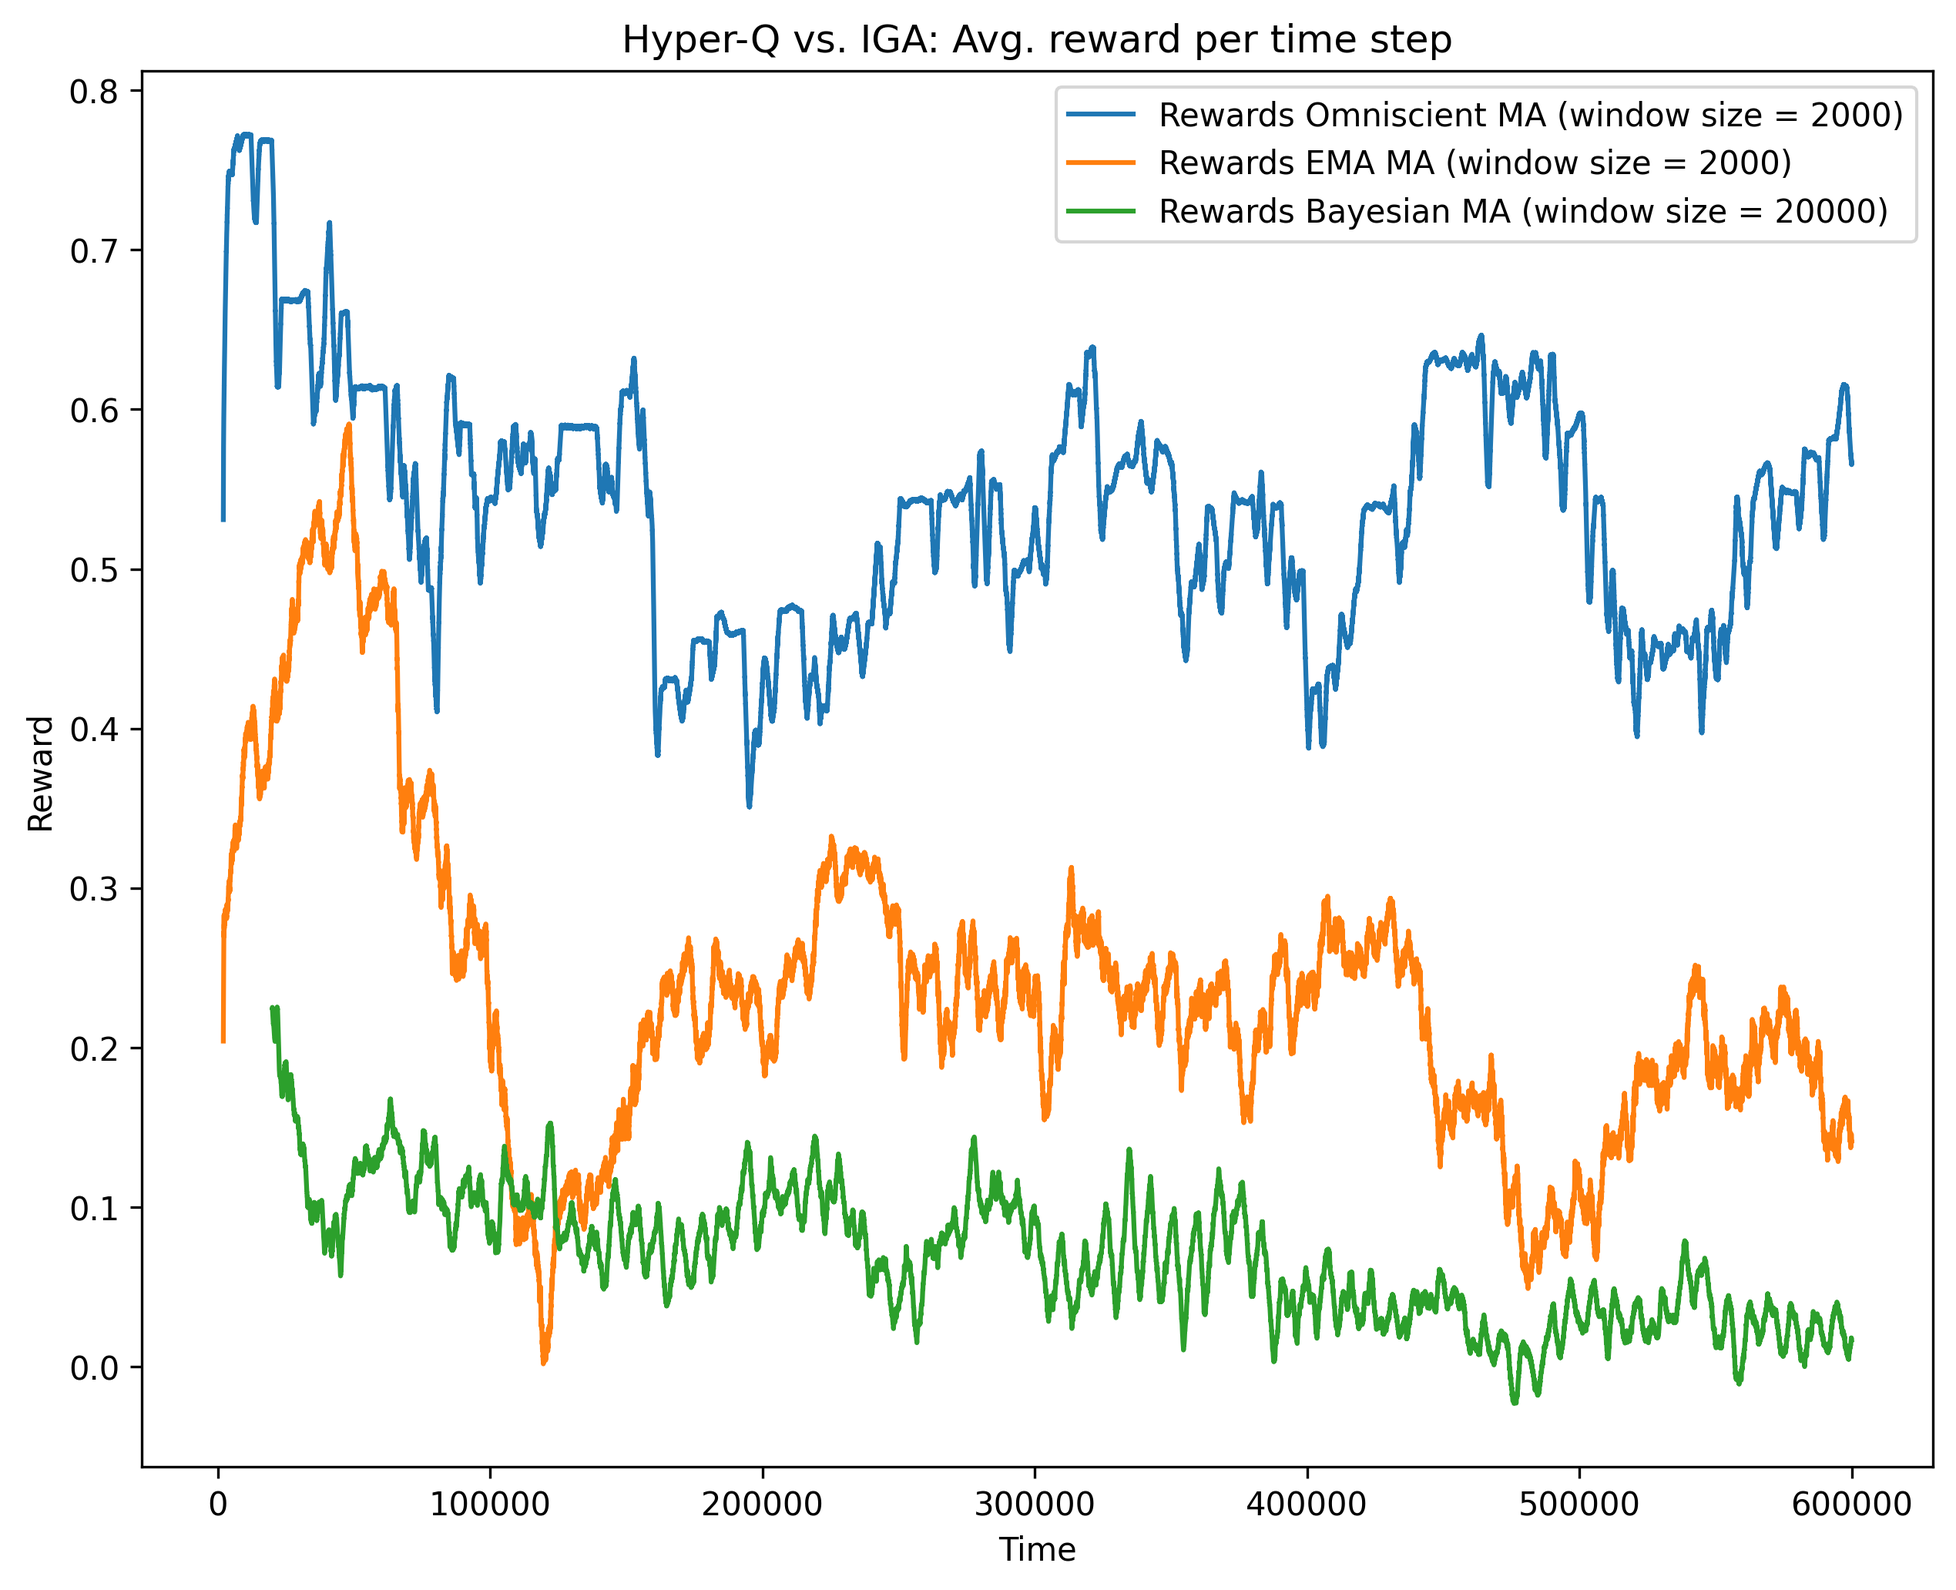
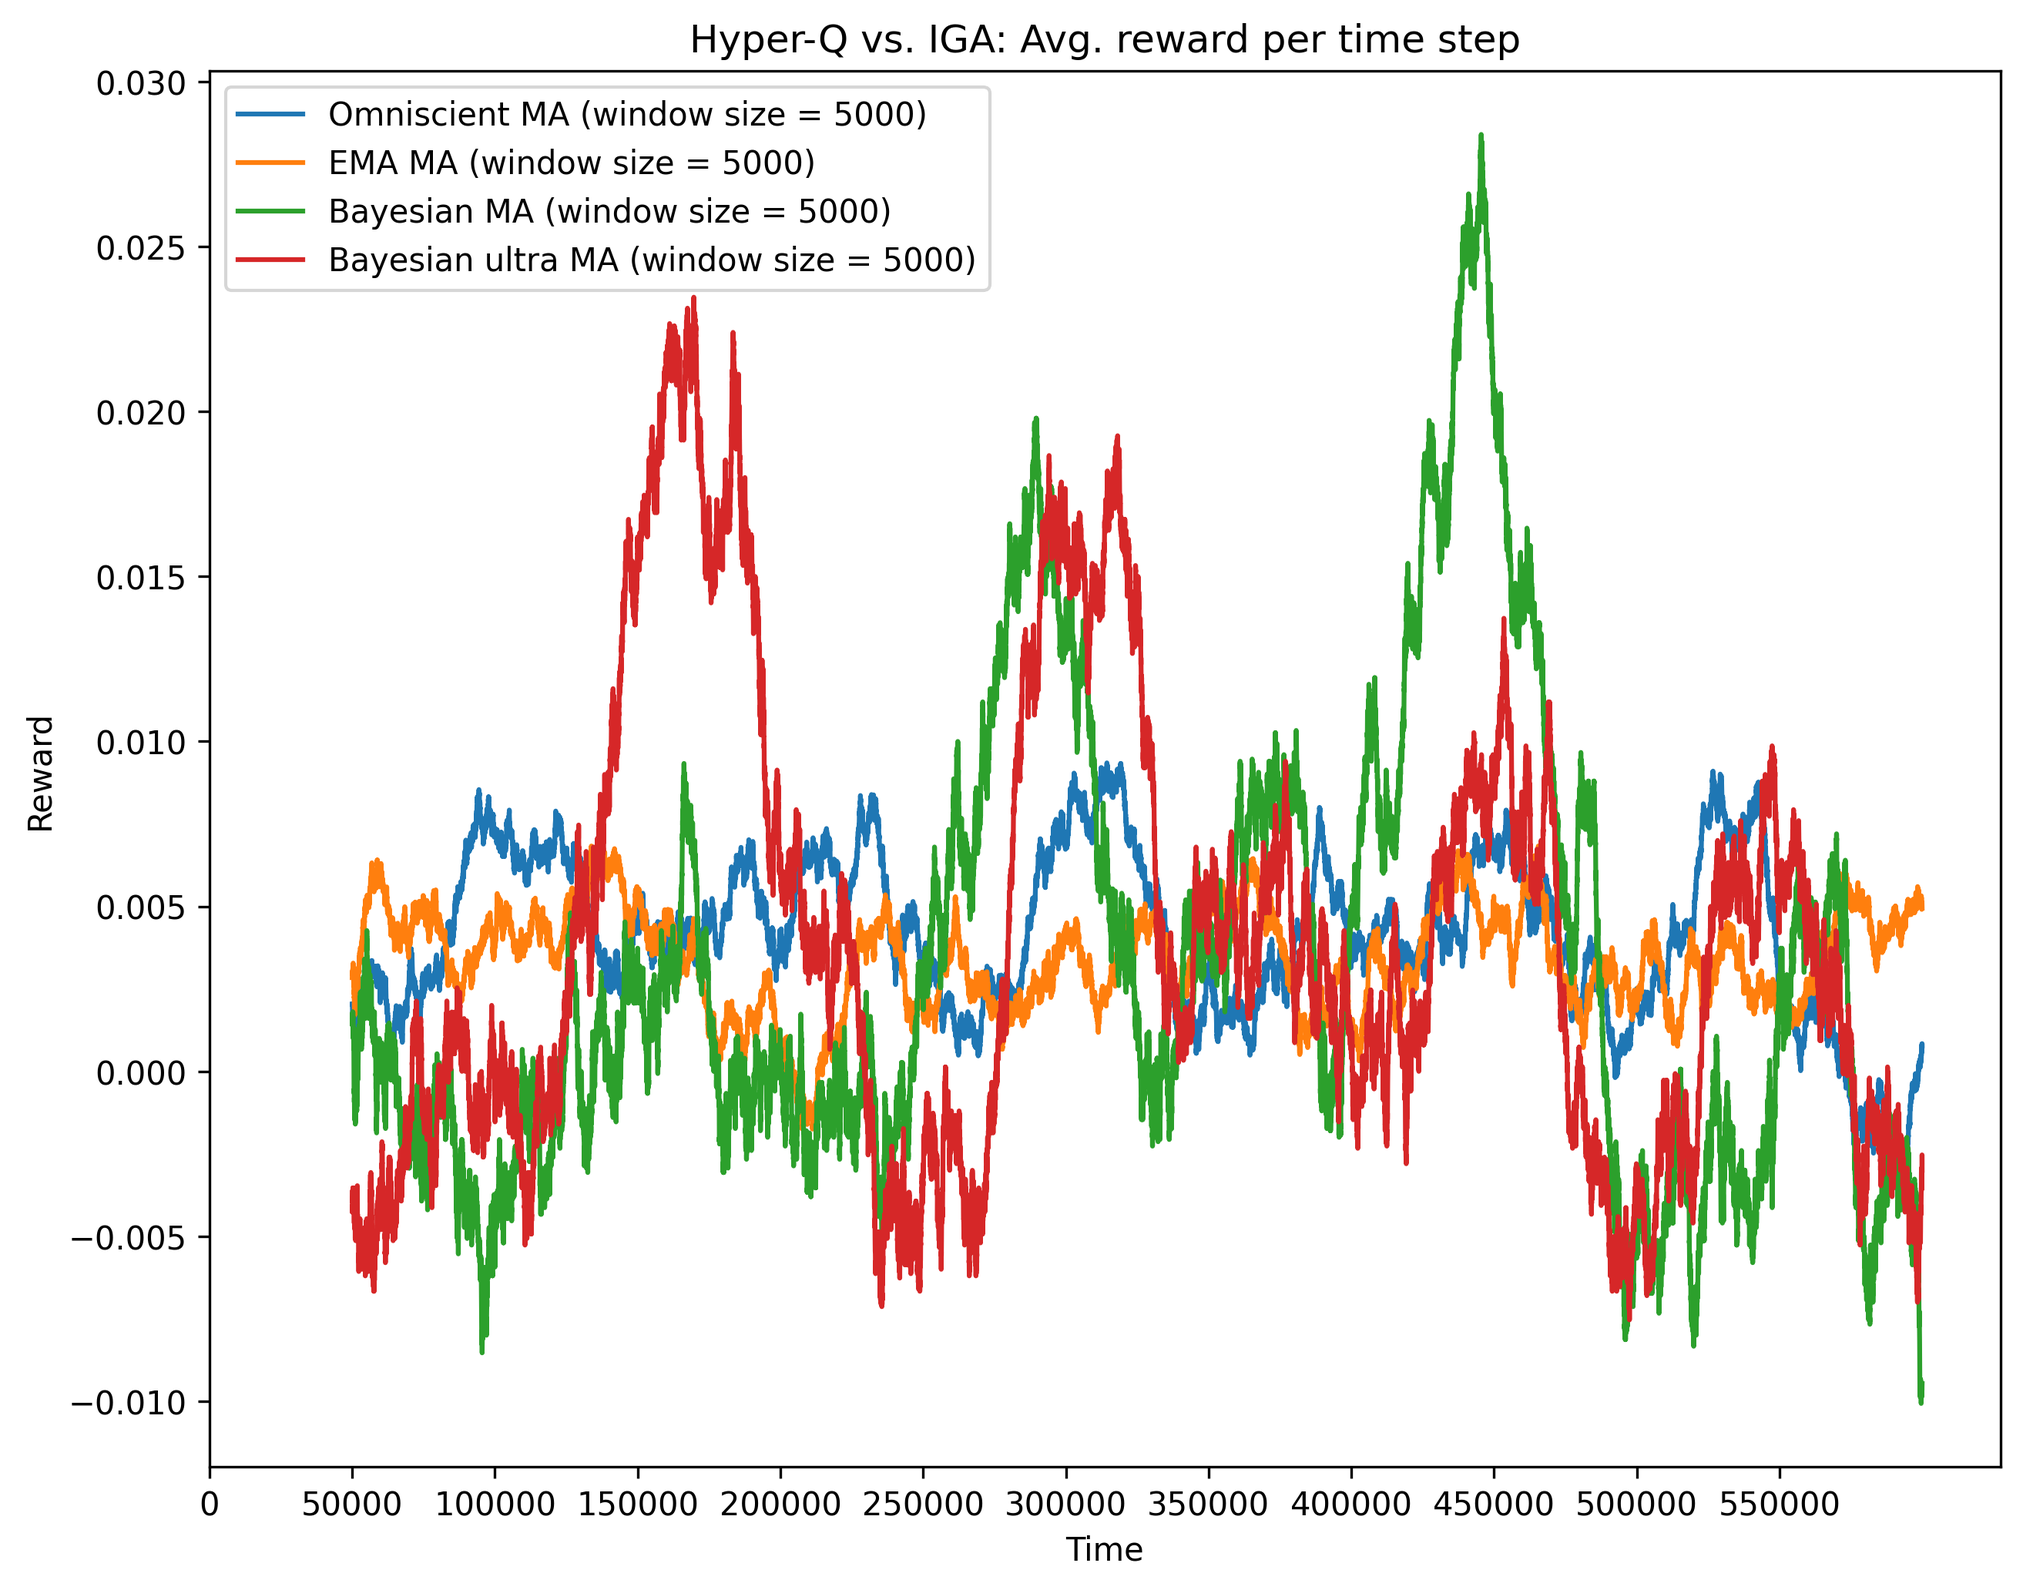
include bayesian and bayesian turbo in graphs

diff --git a/results analysis/temp.py b/results analysis/temp.py
@@ -10,7 +10,7 @@ plt.rcParams["figure.figsize"] = (10, 8)
 # %%
 
 
-def load_experiment_data(target_dir="results/EMA vs monotone"):
+def load_experiment_data(target_dir="results2/EMA vs monotone"):
     # Create an empty list to store the data from each file
     all_data = []
 
@@ -119,6 +119,9 @@ def plot_average_reward_hyperq_vs_other(hyper_q_experiments,
 
     if steps is None:
         steps = max_steps
+    
+    # Generate a range of indices from 0 to the length of val1 - 1
+    time = range(steps)
 
     for idx, experiment_data in enumerate(hyper_q_experiments):
         nb_experiments, max_steps, _ = experiment_data.shape
@@ -126,8 +129,7 @@ def plot_average_reward_hyperq_vs_other(hyper_q_experiments,
         # mean of axis 0 -> wants seq of len t
         agent1_avg_rewards = np.mean(experiment_data[:, 0:steps, agent_idx], axis=0)
 
-        # Generate a range of indices from 0 to the length of val1 - 1
-        time = range(steps)
+
 
         # moving average
         ma_rewards = pd.Series(agent1_avg_rewards).rolling(
@@ -135,13 +137,18 @@ def plot_average_reward_hyperq_vs_other(hyper_q_experiments,
 
         # Create the plot using matplotlib's plot function
         plt.plot(time, ma_rewards,
-                 label=f'Rewards {agent_names[idx]} MA (window size = {ma_window_sizes[idx]})')
+                 label=f'{agent_names[idx]} MA (window size = {ma_window_sizes[idx]})')
 
         # Add a title, x and y labels, and a legend
         plt.title(title)
         plt.xlabel('Time')
         plt.ylabel('Reward')
         plt.legend()
+    
+    # Multiply the time values by 10 # beacuse c++ only saves every 10 steps
+    tick_positions = range(0, steps, 5000)
+    tick_labels = [x * 10 for x in tick_positions]
+    plt.xticks(tick_positions, tick_labels)
 
     if file_name:
         plt.savefig(file_name, dpi=300, bbox_inches="tight")
@@ -185,6 +192,12 @@ def plot_strategy_over_time_single_agent(strategies_over_time, title, steps=None
 
     plt.show()
 
+# %%
+
+plt.rcParams["figure.figsize"] = (10, 8)
+
+REWARDS_PLAYER_X = 2
+REWARDS_PLAYER_Y = 3
 
 # %%
 # **********************************************
@@ -192,50 +205,50 @@ def plot_strategy_over_time_single_agent(strategies_over_time, title, steps=None
 # **********************************************
 
 ################ IGA VS Omniscient, EMA, Bayesian  ###############
-omniscient_experiment_data = load_experiment_data(
-    target_dir="results/IGA vs omniscient")
-EMA_experiment_data = load_experiment_data(target_dir="results/IGA vs EMA")
-Bayesian_experiment_data = load_experiment_data(
-    target_dir="results/IGA vs Bayesian")
+omniscient_experiment_data = load_experiment_data(target_dir="results2/IGA vs omniscient")
+EMA_experiment_data = load_experiment_data(target_dir="results2/IGA vs EMA")
+Bayesian_experiment_data = load_experiment_data(target_dir="results2/IGA vs Bayesian")
+Bayesian_ultra_experiment_data = load_experiment_data(target_dir="results2/IGA vs Bayesian ultra")
 
 # %%
+
 
 ################ IGA VS Omniscient, EMA, Bayesian  ###############
 plot_average_reward_hyperq_vs_other([omniscient_experiment_data,
                                     EMA_experiment_data,
-                                    Bayesian_experiment_data],
+                                    Bayesian_experiment_data,
+                                    Bayesian_ultra_experiment_data
+                                    ],
                                     title="Hyper-Q vs. IGA: Avg. reward per time step",
                                     agent_names=["Omniscient",
-                                                 "EMA", "Bayesian"],
-                                    ma_window_sizes=[2000, 2000, 20_000],
+                                                 "EMA", "Bayesian", "Bayesian ultra"],
+                                    ma_window_sizes=[5000, 5000, 5000, 5000],
                                     symmetrical_reward=True,
-                                    steps=600_000,
+                                    agent_idx=3,
+                                    steps=60_000,
                                     file_name="HyperQ vs IGA Avg reward per time step")
 
 # %%
 
-# omniscient_experiment_data = load_experiment_data(target_dir="results/PHC vs omniscient")
-EMA_experiment_data = load_experiment_data(target_dir="results/PHC vs EMA")
-Bayesian_experiment_data = load_experiment_data(
-    target_dir="results/PHC vs Bayesian")
+omniscient_experiment_data = load_experiment_data(target_dir="results2/PHC vs omniscient")
+EMA_experiment_data = load_experiment_data(target_dir="results2/PHC vs EMA")
+Bayesian_experiment_data = load_experiment_data(target_dir="results2/PHC vs Bayesian")
+Bayesian_ultra_experiment_data = load_experiment_data(target_dir="results2/PHC vs Bayesian ultra")
 
 # %%
 
-# TODO: OMNISCIENT #
 plot_average_reward_hyperq_vs_other([
-    # omniscient_experiment_data,
+                                    omniscient_experiment_data,
                                     EMA_experiment_data,
-                                    Bayesian_experiment_data],
+                                    Bayesian_experiment_data,
+                                    Bayesian_ultra_experiment_data],
                                     title="Hyper-Q vs. PHC: Avg. reward per time step",
-                                    agent_names=[
-                                                #"Omniscient",
-                                                 "EMA", "Bayesian"
-                                                 ],
-                                    ma_window_sizes=[
-                                        # 2000, 
-                                        2000, 20_000],
+                                    agent_names=["Omniscient",
+                                                 "EMA", "Bayesian", "Bayesian ultra"],
+                                    ma_window_sizes=[5000, 5000, 5000, 5000],
                                     symmetrical_reward=True,
-                                    steps=600_000,
+                                    agent_idx=REWARDS_PLAYER_Y,
+                                    steps=60_000,
                                     file_name="HyperQ vs PHC Avg reward per time step")
 
 
@@ -245,11 +258,12 @@ plot_average_reward_hyperq_vs_other([
 
 
 ################ PHC, IGA, Omniscient, EMA, Bayesian vs monotone ###############
-experiment_vs_monotone1 = load_experiment_data(target_dir="results/PHC vs monotone")
-experiment_vs_monotone2 = load_experiment_data(target_dir="results/IGA vs monotone")
-experiment_vs_monotone3 = load_experiment_data(target_dir="results/Omniscient vs monotone")
-experiment_vs_monotone4 = load_experiment_data(target_dir="results/EMA vs monotone")
-experiment_vs_monotone5 = load_experiment_data(target_dir="results/Bayesian vs monotone")
+experiment_vs_monotone1 = load_experiment_data(target_dir="results2/PHC vs monotone")
+experiment_vs_monotone2 = load_experiment_data(target_dir="results2/IGA vs monotone")
+experiment_vs_monotone3 = load_experiment_data(target_dir="results2/Omniscient vs monotone")
+experiment_vs_monotone4 = load_experiment_data(target_dir="results2/EMA vs monotone")
+experiment_vs_monotone5 = load_experiment_data(target_dir="results2/Bayesian vs monotone")
+experiment_vs_monotone6 = load_experiment_data(target_dir="results2/Bayesian ultra vs monotone")
 
 # %%
 
@@ -259,6 +273,7 @@ plot_average_reward_hyperq_vs_other([
                                     experiment_vs_monotone3,
                                     experiment_vs_monotone4,
                                     experiment_vs_monotone5,
+                                    experiment_vs_monotone6
                                     ],
                                     title="PHC, IGA, Omniscient, EMA, Bayesian vs monotone: Avg. reward per time step",
                                     agent_names=[
@@ -266,16 +281,17 @@ plot_average_reward_hyperq_vs_other([
                                         "IGA",
                                         "Omniscient",
                                         "EMA",
-                                        "Bayesian"],
+                                        "Bayesian", "Bayesian ultra"],
                                     ma_window_sizes=[
-                                        2000,
-                                        2000,
-                                        2000, 
-                                        2000, 
-                                        20_000],
+                                        5000,
+                                        5000,
+                                        5000, 
+                                        5000, 
+                                        5000, 
+                                        5000],
                                     symmetrical_reward=True,
-                                    steps=600_000,
-                                    agent_idx=2,
+                                    steps=60_000,
+                                    agent_idx=REWARDS_PLAYER_X,
                                     file_name="HyperQ, IGA, PHC vs monotone")
 
 # %%
@@ -292,13 +308,13 @@ assert False
 ################ PHC VS MONOTONE ###############
 
 
-experiment_data = load_experiment_data(target_dir="results/PHC vs monotone")
+experiment_data = load_experiment_data(target_dir="results2/PHC vs monotone")
 
 plot_average_reward_over_time(experiment_data,
                               title="PHC vs Monotone",
                               agent1_name="PHC",
                               agent2_name="Monotone",
-                              steps=600_000,
+                              steps=60_000,
                               file_name='PHC vs monotone',
                               symmetrical_reward=False)
 
@@ -307,7 +323,7 @@ agent1_experiment1_strategies_over_time = experiment_data[:, :, 7:10]
 plot_strategy_over_time_single_agent(
     agent1_experiment1_strategies_over_time,
     title="Monotone agent1 strategy evolution",
-    steps=600_000,
+    steps=60_000,
     file_name="coop omniscient vs omniscient agent1 actions")
 
 
@@ -316,7 +332,7 @@ plot_strategy_over_time_single_agent(
 ################ IGA VS MONOTONE ###############
 
 
-experiment_data = load_experiment_data(target_dir="results/IGA vs monotone")
+experiment_data = load_experiment_data(target_dir="results2/IGA vs monotone")
 
 # %%
 
@@ -324,7 +340,7 @@ plot_average_reward_over_time(experiment_data,
                               title="Rewards IGA vs Monotone",
                               agent1_name="IGA",
                               agent2_name="Monotone",
-                              steps=600_000,
+                              steps=60_000,
                               file_name='IGA vs monotone',
                               symmetrical_reward=False)
 
@@ -334,7 +350,7 @@ plot_average_reward_over_time(experiment_data,
 ################ EMA VS MONOTONE ###############
 
 
-experiment_data = load_experiment_data(target_dir="results/EMA vs monotone")
+experiment_data = load_experiment_data(target_dir="results2/EMA vs monotone")
 
 # %%
 
@@ -358,7 +374,7 @@ plot_average_reward_over_time(
 
 ################ OMNISCIENT VS MONOTONE ###############
 
-# experiment_data2 = load_experiment_data(target_dir="results/Omniscient vs monotone")
+# experiment_data2 = load_experiment_data(target_dir="results2/Omniscient vs monotone")
 
 # plot_average_reward_over_time(experiment_data2, title="Omniscient vs Monotone", agent1_name="Omniscient", agent2_name="Monotone",
 #                               steps=50)
@@ -384,7 +400,7 @@ plot_average_reward_over_time(
 # **********************************************
 ################# OMNISCIENT ####################
 experiment_coop_data = load_experiment_data(
-    target_dir="results/cooperation/Omniscient vs Omniscient")
+    target_dir="results2/cooperation/Omniscient vs Omniscient")
 
 # %%
 
@@ -392,7 +408,7 @@ plot_average_reward_over_time(experiment_coop_data,
                               title="Cooperation game - Omniscient vs Omniscient - Reward over time",
                               agent1_name="EMA",
                               agent2_name="Monotone",
-                              steps=600_000,
+                              steps=60_000,
                               file_name='coop omniscient vs omniscient')
 
 # %%
@@ -405,21 +421,21 @@ agent2_experiment1_strategies_over_time = experiment_coop_data[:, :, 7:10]
 plot_strategy_over_time_single_agent(
     agent1_experiment1_strategies_over_time,
     title="Omniscient agent1 strategy evolution",
-    steps=600_000,
+    steps=60_000,
     file_name="coop omniscient vs omniscient agent1 actions")
 
 plot_strategy_over_time_single_agent(
     agent2_experiment1_strategies_over_time,
     title="Omniscient agent2 strategy evolution",
     file_name="coop omniscient vs omniscient agent2 actions",
-    steps=600_000)
+    steps=60_000)
 
 # %%
 
 
 ################# EMA ####################
 experiment_coop_data = load_experiment_data(
-    target_dir="results/cooperation/EMA vs EMA")
+    target_dir="results2/cooperation/EMA vs EMA")
 
 # %%
 
@@ -427,7 +443,7 @@ plot_average_reward_over_time(experiment_coop_data,
                               title="Cooperation game - EMA vs EMA - Reward over time",
                               agent1_name="EMA",
                               agent2_name="Monotone",
-                              steps=600_000,
+                              steps=60_000,
                               file_name='coop EMA vs EMA')
 
 # %%
@@ -440,21 +456,21 @@ agent2_experiment1_strategies_over_time = experiment_coop_data[:, :, 7:10]
 plot_strategy_over_time_single_agent(
     agent1_experiment1_strategies_over_time,
     title="EMA agent1 strategy evolution",
-    steps=600_000,
+    steps=60_000,
     file_name="coop EMA vs EMA agent1 actions")
 
 plot_strategy_over_time_single_agent(
     agent2_experiment1_strategies_over_time,
     title="EMA agent2 strategy evolution",
     file_name="coop EMA vs EMA agent2 actions",
-    steps=600_000)
+    steps=60_000)
 
 # %%
 
 
 ################# Bayesian ##################
 experiment_coop_data = load_experiment_data(
-    target_dir="results/cooperation/Bayesian vs Bayesian2")
+    target_dir="results2/cooperation/Bayesian vs Bayesian2")
 
 # %%
 
@@ -463,7 +479,7 @@ plot_average_reward_over_time(experiment_coop_data,
                               agent1_name="Bayesian",
                               agent2_name="Monotone",
                               ma_window_size=20_000,
-                              steps=600_000,
+                              steps=60_000,
                               file_name='coop Bayesian vs Bayesian')
 
 # %%
@@ -476,7 +492,7 @@ agent2_experiment1_strategies_over_time = experiment_coop_data[:, :, 7:10]
 plot_strategy_over_time_single_agent(
     agent1_experiment1_strategies_over_time,
     title="Bayesian agent1 strategy evolution",
-    steps=600_000,
+    steps=60_000,
     ma_window_size=20_000,
     file_name="coop Bayesian vs Bayesian agent1 actions")
 
@@ -485,6 +501,6 @@ plot_strategy_over_time_single_agent(
     ma_window_size=20_000,
     title="Bayesian agent2 strategy evolution",
     file_name="coop Bayesian vs Bayesian agent2 actions",
-    steps=600_000)
+    steps=60_000)
 
 # %%
